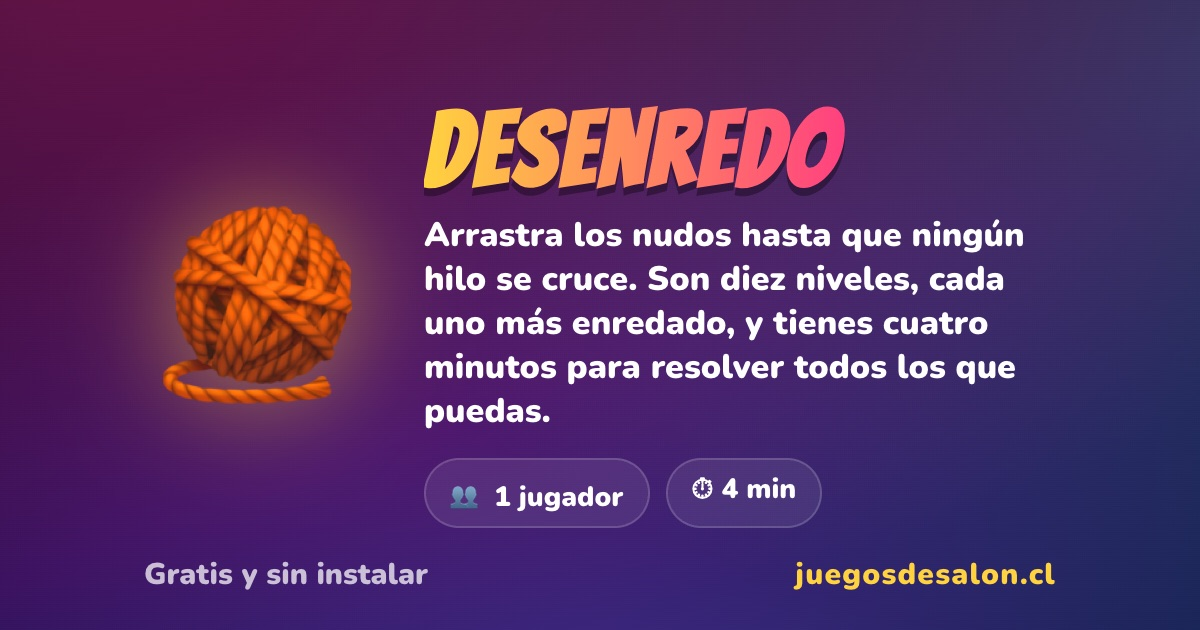
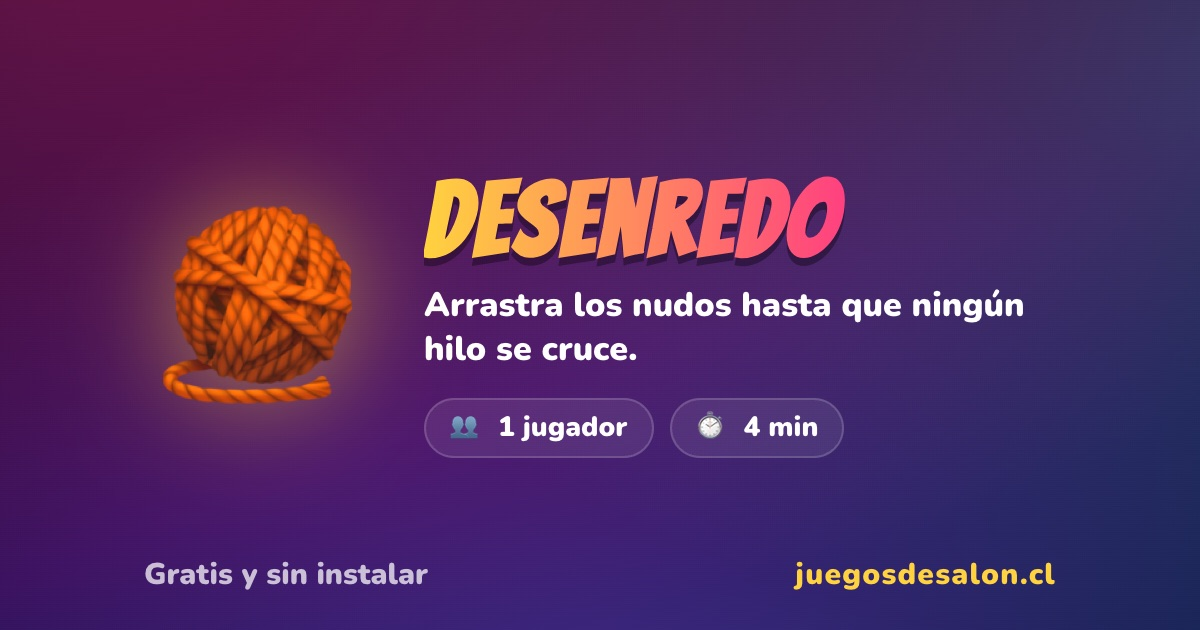
Tarjetas: cada imagen guarda su huella y una atrasada no se publica (D-181)
La de Desenredo salió con las píldoras desalineadas (el error de 0.84.2 y 0.84.3)
porque se hizo desde una rama anterior al arreglo, y og.mjs revisar solo miraba que
existiera. Ahora la huella del dibujo y los textos va en assets/og/huellas.json y
revisar (CI y set-version.py) frena una imagen atrasada. imagenes rehace solo esas.

Changed region(s): [[0.3392, 0.1508, 0.8633, 0.6032], [0.3392, 0.6333, 0.5242, 0.8444], [0.5242, 0.6333, 0.7092, 0.8444]]

diff --git a/tools/set-version.py b/tools/set-version.py
@@ -8,7 +8,8 @@ Estampa una versión en el sitio para evitar caché mezclada (HTML nuevo con JS 
 - Agrega ?v=VERSION a las hojas de estilo.
 - Actualiza el número de versión visible en el pie del menú.
 
-- Antes de estampar, revisa que el README no haya quedado viejo (tools/readme.py revisar):
+- Antes de estampar, revisa que el README no haya quedado viejo (tools/readme.py revisar)
+  y que las imágenes de las tarjetas sociales estén al día (tools/og.mjs revisar, D-181):
   la publicación es el único momento por el que pasan todos los cambios, así que es el
   lugar donde preguntarlo. Con --igual se estampa igual, para una urgencia.
 
@@ -49,6 +50,12 @@ def tarjetas_sociales():
     print('Tarjetas sociales:', ultima[-1] if ultima else r.stderr.strip())
 
 
+def revisar_imagenes():
+    """Las imágenes de las tarjetas, contra su dibujo y sus textos de hoy (D-181). True si están al día."""
+    print('Imágenes de las tarjetas:', flush=True)
+    return subprocess.run(['node', str(ROOT / 'tools/og.mjs'), 'revisar']).returncode == 0
+
+
 def revisar_readme():
     """El README, contra el código de hoy. Devuelve True si está al día."""
     print('README:', flush=True)
@@ -77,6 +84,12 @@ if __name__ == '__main__':
         sys.exit('uso: python3 tools/set-version.py X.Y.Z [--igual]')
     if not revisar_readme() and '--igual' not in sys.argv:
         sys.exit('\nel README quedó atrás del código. Arriba dice qué le falta.\n'
+                 'Para estampar igual (y arreglarlo después): '
+                 f'python3 tools/set-version.py {args[0]} --igual')
+    # Una imagen hecha con el dibujo viejo o antes de cambiar una bajada (las píldoras desalineadas
+    # volvieron así más de una vez): se rehace antes de publicar, no después (D-181)
+    if not revisar_imagenes() and '--igual' not in sys.argv:
+        sys.exit('\nhay imágenes de tarjetas que quedaron atrás: node tools/og.mjs imagenes\n'
                  'Para estampar igual (y arreglarlo después): '
                  f'python3 tools/set-version.py {args[0]} --igual')
     print()

diff --git a/docs/DECISIONES.md b/docs/DECISIONES.md
@@ -2616,3 +2616,21 @@ inicial; el dueño prefirió niveles); generar con rectas al azar como Planarity
 de 6 a 10 a 15 nudos y no dan diez niveles parejos); prohibir soltar un nudo encima de otro (el
 cruce por cercanía ya lo resuelve sin un gesto que rebota).
 
+## D-181 · Cada imagen de tarjeta guarda su huella, y una atrasada no se publica
+**Fecha:** 2026-10-02 · **Estado:** vigente · **Amplía D-72**
+**Decisión:** `node tools/og.mjs imagenes` anota en `assets/og/huellas.json` la huella de cada
+imagen que hace: un hash del dibujo (`tools/og/tarjeta.html`) y de lo que la imagen dice (el emoji,
+el nombre, la bajada, los jugadores y la duración del juego en `games.js`, o los textos de la
+portada). `node tools/og.mjs revisar` la compara con la de hoy y da error si una imagen falta o se
+hizo con otro dibujo u otros textos. Lo corren CI (en cada PR) y `set-version.py` antes de
+estampar, que no estampa sin `--igual`. `imagenes` rehace solo las atrasadas; `--todas`, todas.
+**Por qué:** las píldoras desalineadas de jugadores y duración volvieron por tercera vez (0.84.2,
+0.84.3 y la de Desenredo en 0.85.0). El arreglo estaba en el dibujo, pero una imagen hecha desde
+una rama anterior a ese arreglo salía con el dibujo viejo, y `revisar` solo miraba que el archivo
+existiera. El error no está en el CSS sino en que nada delataba una imagen vieja.
+**Consecuencias:** cambiar `tarjeta.html` marca las 19 imágenes y obliga a rehacerlas (con Chrome
+y fuentes de Google: en el Mac del dueño, no en la nube). Cambiar una bajada marca solo la de ese
+juego. `base.css` no entra en la huella: cambia seguido por cosas que la tarjeta no usa.
+**Alternativas descartadas:** rehacer todas las imágenes en cada publicación (lento, necesita
+internet y Chrome, y llena el diff de bytes); comparar fechas de archivo (git no las conserva).
+

diff --git a/CLAUDE.md b/CLAUDE.md
@@ -71,13 +71,14 @@ estas tarjetas.
 
 ```bash
 node tools/og.mjs tarjetas    # reescribe el bloque <!-- generado: og --> (lo corre set-version.py)
-node tools/og.mjs imagenes    # rehace los 1200×630 con Chrome (necesita internet: Google Fonts)
-node tools/og.mjs revisar     # ¿falta una tarjeta o una imagen?
+node tools/og.mjs imagenes    # rehace con Chrome las 1200×630 atrasadas (--todas: todas; necesita internet)
+node tools/og.mjs revisar     # ¿falta una tarjeta, o una imagen se hizo con otro dibujo u otros textos? (D-181)
 ```
 
 Los textos salen de `assets/js/games.js` y el dibujo de [tools/og/tarjeta.html](tools/og/tarjeta.html),
 que importa los módulos reales. Las imágenes se rehacen a mano: solo cambian si cambia un nombre,
-un emoji o el diseño (D-72).
+un emoji, una bajada o el diseño (D-72). Cada una guarda la huella de su dibujo y sus textos, y una
+atrasada frena el PR y `set-version.py` (D-181): **se rehacen desde una rama al día con `main`**.
 
 ## Pruebas
 

diff --git a/CHANGELOG.md b/CHANGELOG.md
@@ -5,6 +5,10 @@
   la de los demás minijuegos; ya no repite con palabras los niveles y los minutos que la tarjeta
   dice en cifras (U-5, U-8). Al terminar, el contador de cruces vacío deja de abrir un hueco entre
   el tablero y el aviso del final (U-11).
+- **Tarjetas para compartir: una imagen atrasada ya no se publica** (D-181). La de Desenredo había
+  salido con las píldoras desalineadas, el mismo error de 0.84.2 y 0.84.3, porque se hizo desde
+  una rama anterior al arreglo. Cada imagen guarda ahora la huella del dibujo y de los textos con
+  que se hizo; si no coinciden con los de hoy, las pruebas del PR y `set-version.py` lo detienen.
 
 ## 0.85.0 — 2026-10-02
 - **🧶 Desenredo, minijuego nuevo en el laboratorio** (D-179): el Untangle de Simon Tatham. Nudos
